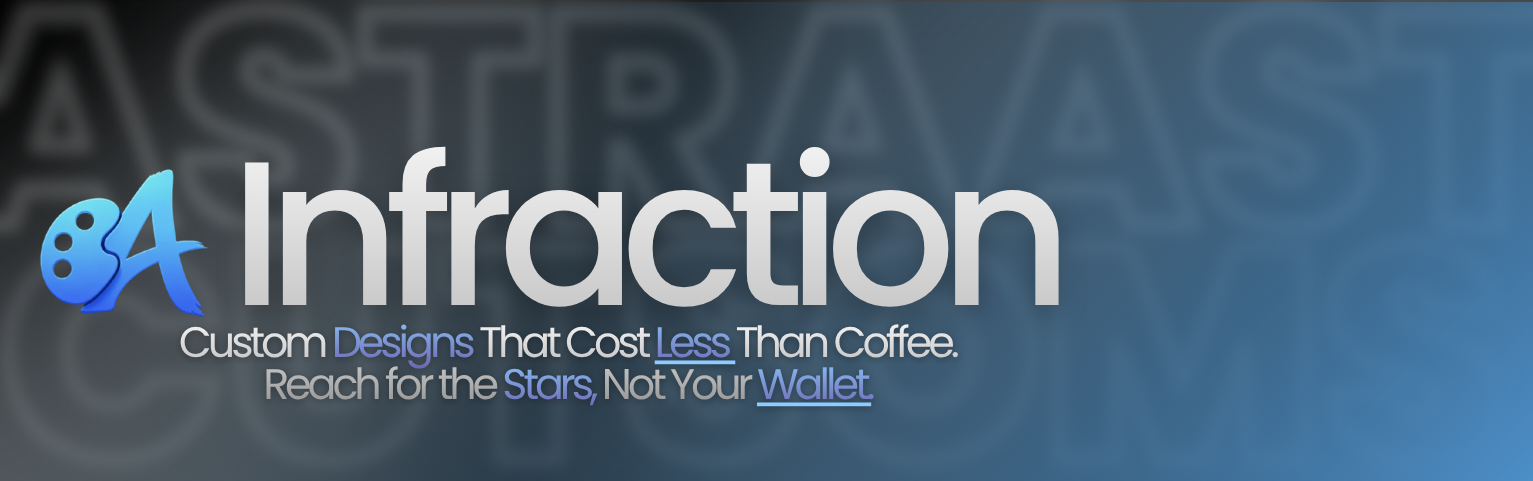
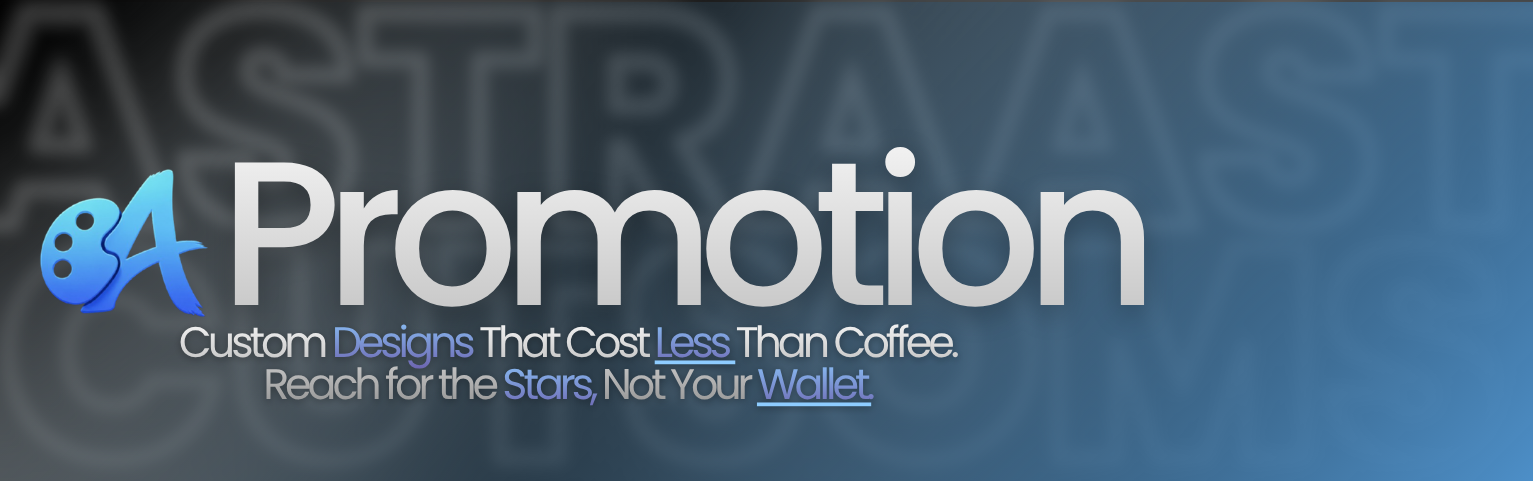
Add application statuses and persistent purchase retries
Add the applications banner, status controls, and closed-application guards. Swap the infraction and promotion artwork, and persist purchase-monitor backoff across restarts.

Changed region(s): [[0.1533, 0.3119, 0.7665, 0.6549]]

diff --git a/commands/application.js b/commands/application.js
@@ -1,0 +1,84 @@
+const { SlashCommandBuilder, MessageFlags } = require('discord.js');
+const config = require('../utils/config');
+const perms = require('../utils/permissions');
+const { BUILDERS } = require('./panel');
+const { sendWithAttachments } = require('../utils/respond');
+const { APPLICATIONS, STATUSES, STATUS_CHOICES } = require('../utils/applicationStatus');
+
+module.exports = {
+    data: new SlashCommandBuilder()
+        .setName('application')
+        .setDescription('Manage employee application availability.')
+        .addSubcommand((subcommand) => subcommand
+            .setName('status')
+            .setDescription('Set an application to open, delayed, or closed.')
+            .addStringOption((option) => option
+                .setName('application')
+                .setDescription('Application to update.')
+                .setRequired(true)
+                .addChoices(
+                    { name: APPLICATIONS.designer.name, value: 'designer' },
+                    { name: APPLICATIONS.staff.name, value: 'staff' },
+                ))
+            .addStringOption((option) => option
+                .setName('status')
+                .setDescription('Application availability.')
+                .setRequired(true)
+                .addChoices(...STATUS_CHOICES))),
+
+    async execute(interaction) {
+        const cfg = config.getConfig(interaction.guildId);
+        if (!perms.isStaff(interaction.member, cfg)) {
+            return interaction.reply({ content: 'You do not have permission to change application status.', flags: MessageFlags.Ephemeral });
+        }
+
+        const application = interaction.options.getString('application', true);
+        const status = interaction.options.getString('status', true);
+        const updatedConfig = config.setNested(interaction.guildId, 'applicationStatus', { [application]: status });
+
+        const definition = APPLICATIONS[application];
+        const statusInfo = STATUSES[status];
+        let panelMessage = '';
+        const panelLocation = updatedConfig.applicationPanel;
+        if (panelLocation?.channelId && panelLocation.messageId) {
+            try {
+                const channel = await interaction.client.channels.fetch(panelLocation.channelId);
+                if (!channel?.isTextBased?.() || channel.isDMBased?.()) {
+                    throw new Error('The saved applications panel channel is unavailable or is not a server text channel.');
+                }
+
+                let previousPanel;
+                try {
+                    previousPanel = await channel.messages.fetch(panelLocation.messageId);
+                } catch (error) {
+                    console.warn('[applications] Could not fetch the previous panel; posting a replacement:', error.message);
+                }
+
+                const replacement = await sendWithAttachments(channel, {
+                    flags: MessageFlags.IsComponentsV2,
+                    ...BUILDERS.applications(updatedConfig),
+                });
+                config.setNested(interaction.guildId, 'applicationPanel', { channelId: replacement.channelId, messageId: replacement.id });
+                panelMessage = ' The applications panel was refreshed.';
+
+                if (previousPanel) {
+                    try {
+                        await previousPanel.delete();
+                    } catch (error) {
+                        console.warn('[applications] Could not remove the previous panel message:', error.message);
+                    }
+                }
+            } catch (error) {
+                console.error('[applications] Status saved, but the panel could not be refreshed:', error);
+                panelMessage = ' The status was saved, but the panel could not be refreshed. Run `/panel applications` to post it again.';
+            }
+        } else {
+            panelMessage = ' Run `/panel applications` once to publish the status panel.';
+        }
+
+        return interaction.reply({
+            content: `Set **${definition.name}** applications to ${statusInfo.emoji} **${statusInfo.label}**.${panelMessage}`,
+            flags: MessageFlags.Ephemeral,
+        });
+    },
+};

diff --git a/commands/panel.js b/commands/panel.js
@@ -15,6 +15,7 @@ const portfolio = require('../utils/portfolio');
 const { parseColor, addPanelBanner } = require('../utils/embeds');
 const { sendAsPanel } = require('../utils/respond');
 const { isExecutive } = require('../utils/env');
+const { APPLICATIONS, STATUSES, getStatus } = require('../utils/applicationStatus');
 
 function addPanelChannel(subcommand) {
     return subcommand.addChannelOption((o) => o.setName('channel').setDescription('Channel to send the panel to').addChannelTypes(ChannelType.GuildText));
@@ -73,15 +74,21 @@ function orderPanel(cfg) {
 }
 
 function applicationsPanel(cfg) {
-    const container = baseContainer(cfg);
+    const container = baseContainer(cfg, 'applications');
     container.addTextDisplayComponents(new TextDisplayBuilder().setContent(`## Employee Applications\n\n*${cfg.brandName} is hiring!* Review the requirements below, then choose the application that fits you best.`));
     container.addSeparatorComponents(new SeparatorBuilder());
-    container.addTextDisplayComponents(new TextDisplayBuilder().setContent('**Creative Team**\n> <:OpenedEmoji1:1545902291469467668> Past experience\n> <:OpenedEmoji1:1545902291469467668> 13+\n> <:OpenedEmoji1:1545902291469467668> Active, dedicated, and professional\n\n**Customer Support**\n> <:OpenedEmoji1:1545902291469467668> 13+\n> <:OpenedEmoji1:1545902291469467668> Active and dedicated\n> <:OpenedEmoji1:1545902291469467668> At least 3 tickets per week'));
+    const designerStatus = getStatus(cfg, 'designer');
+    const staffStatus = getStatus(cfg, 'staff');
+    const designerInfo = STATUSES[designerStatus];
+    const staffInfo = STATUSES[staffStatus];
+    container.addTextDisplayComponents(new TextDisplayBuilder().setContent(
+        `**${APPLICATIONS.designer.name} — ${designerInfo.emoji} ${designerInfo.label}**\n> ${STATUSES.open.emoji} Past experience\n> ${STATUSES.open.emoji} 13+\n> ${STATUSES.open.emoji} Active, dedicated, and professional\n\n**${APPLICATIONS.staff.name} — ${staffInfo.emoji} ${staffInfo.label}**\n> ${STATUSES.open.emoji} 13+\n> ${STATUSES.open.emoji} Active and dedicated\n> ${STATUSES.open.emoji} At least 3 tickets per week`
+    ));
     container.addSeparatorComponents(new SeparatorBuilder());
     container.addTextDisplayComponents(new TextDisplayBuilder().setContent('Answer every question honestly and with useful detail. Designers should prepare portfolio links and list their software or specialties. Submitting an application does not guarantee acceptance.'));
     container.addActionRowComponents(new ActionRowBuilder().addComponents(
-        new ButtonBuilder().setCustomId('application_staff_open').setLabel('Apply for Staff').setStyle(ButtonStyle.Primary).setEmoji('🧑💼'),
-        new ButtonBuilder().setCustomId('application_designer_open').setLabel('Apply as Designer').setStyle(ButtonStyle.Success).setEmoji('🎨'),
+        new ButtonBuilder().setCustomId('application_staff_open').setLabel(APPLICATIONS.staff.buttonLabel).setStyle(ButtonStyle.Primary).setEmoji('🧑💼').setDisabled(staffStatus === 'closed'),
+        new ButtonBuilder().setCustomId('application_designer_open').setLabel(APPLICATIONS.designer.buttonLabel).setStyle(ButtonStyle.Success).setEmoji('🎨').setDisabled(designerStatus === 'closed'),
     ));
     return { components: [container] };
 }
@@ -165,6 +172,9 @@ module.exports = {
 
         if (type === 'honeypot' && sent) {
             config.setNested(guildId, 'honeypot', { channelId: sent.channelId, messageId: sent.id });
+        }
+        if (type === 'applications' && sent) {
+            config.setNested(guildId, 'applicationPanel', { channelId: sent.channelId, messageId: sent.id });
         }
 
         return sent;

diff --git a/services/purchaseMonitor.js b/services/purchaseMonitor.js
@@ -20,14 +20,20 @@ const TRANSACTION_LIMIT = 100;
 const MAX_SEEN_TRANSACTION_IDS = 500;
 const STATE_STORE = 'purchaseMonitor';
 const retryAfter = new Map();
-const consecutiveFailures = new Map();
 let isStarted = false;
 let lastRobloxRequestAt = 0;
 let hasLoadedRobloxRequestAt = false;
 
 function getGroupState(groupId) {
     const all = store.get(STATE_STORE, 'global', {});
-    return all[String(groupId)] || { initialized: false, lastSeenAt: 0, seenIds: [], nextRequestAt: 0 };
+    return {
+        initialized: false,
+        lastSeenAt: 0,
+        seenIds: [],
+        nextRequestAt: 0,
+        consecutiveFailures: 0,
+        ...all[String(groupId)],
+    };
 }
 
 function saveGroupState(groupId, state) {
@@ -223,19 +229,21 @@ async function pollGroups(client, cookie) {
             await processGroup(client, groupId, destinations, transactions);
             const updatedState = getGroupState(groupId);
             updatedState.nextRequestAt = 0;
+            updatedState.consecutiveFailures = 0;
             saveGroupState(groupId, updatedState);
             retryAfter.delete(groupId);
-            consecutiveFailures.delete(groupId);
         } catch (error) {
-            const failures = (consecutiveFailures.get(groupId) || 0) + 1;
-            consecutiveFailures.set(groupId, failures);
+            const failedState = getGroupState(groupId);
+            const failures = failedState.consecutiveFailures + 1;
             const delay = backoffDuration(error, failures);
             retryAfter.set(groupId, Date.now() + delay);
-            const failedState = getGroupState(groupId);
             failedState.nextRequestAt = Date.now() + delay;
+            failedState.consecutiveFailures = failures;
             saveGroupState(groupId, failedState);
             if (error.response?.status === 429) {
                 console.warn(`[purchaseMonitor] Roblox rate-limited group ${groupId}; retrying in ${Math.ceil(delay / 1000)} seconds.`);
+            } else if (error.response?.status >= 500) {
+                console.warn(`[purchaseMonitor] Roblox transactions endpoint returned HTTP ${error.response.status} for group ${groupId}; retrying in ${Math.ceil(delay / 1000)} seconds.`);
             } else {
                 console.error(`[purchaseMonitor] Error fetching transactions for group ${groupId}; retrying in ${Math.ceil(delay / 1000)} seconds:`, error.message);
             }

diff --git a/events/interactionCreate.js b/events/interactionCreate.js
@@ -43,6 +43,7 @@ const paymentRequestCmd = require('../commands/paymentrequest');
 const textCmd = require('../commands/text');
 const activityUtil = require('../utils/activity');
 const activityCmd = require('../commands/activity');
+const applicationStatus = require('../utils/applicationStatus');
 
 module.exports = {
     name: Events.InteractionCreate,
@@ -441,6 +442,9 @@ async function handleButton(interaction) {
     // ---- Dashboard: staff/designer applications ----
     if (customId === 'application_staff_open' || customId === 'application_designer_open') {
         const type = customId === 'application_staff_open' ? 'staff' : 'designer';
+        if (applicationStatus.getStatus(cfg, type) === 'closed') {
+            return interaction.reply({ content: `The **${applicationStatus.APPLICATIONS[type].name}** application is currently closed.`, flags: MessageFlags.Ephemeral });
+        }
         const modal = new ModalBuilder().setCustomId(`application_${type}_modal`).setTitle(`${type === 'staff' ? 'Staff' : 'Designer'} Application`);
         const questions = type === 'staff'
             ? [
@@ -792,6 +796,9 @@ async function handleModal(interaction) {
 
     if (customId === 'application_staff_modal' || customId === 'application_designer_modal') {
         const type = customId === 'application_staff_modal' ? 'staff' : 'designer';
+        if (applicationStatus.getStatus(cfg, type) === 'closed') {
+            return interaction.reply({ content: `The **${applicationStatus.APPLICATIONS[type].name}** application is currently closed. Your application was not submitted.`, flags: MessageFlags.Ephemeral });
+        }
         const answers = Object.fromEntries(['why_join', 'activity', 'experience', 'difficult_customer', 'roblox_username', 'portfolio', 'software', 'specialties']
             .map((field) => [field, interaction.fields.fields.has(field) ? interaction.fields.getTextInputValue(field) : null]));
 

diff --git a/utils/applicationStatus.js b/utils/applicationStatus.js
@@ -1,0 +1,32 @@
+const APPLICATIONS = Object.freeze({
+    designer: { name: 'Creative Team', buttonLabel: 'Apply: Creative Team' },
+    staff: { name: 'Customer Support', buttonLabel: 'Apply: Customer Support' },
+});
+
+const STATUSES = Object.freeze({
+    open: {
+        label: 'Open',
+        emoji: '<:OpenedEmoji1:1545902291469467668><:OpenedEmoji2:1545902335421841509><:OpenedEmoji3:1545902388961878188>',
+    },
+    delayed: {
+        label: 'Delayed',
+        emoji: '<:DeleyaedEmoji1:1558226588980617268><:DeleyaedEmojimiddle:1558226618160259072><:DeleyaedEmoji:1558226651148582973>',
+    },
+    closed: {
+        label: 'Closed',
+        emoji: '<:ClosedEmoji1:1545902477621072022><:ClosedEmoji2:1545902533703245914><:ClosedEmoji3:1545902589403594903>',
+    },
+});
+
+const STATUS_CHOICES = Object.freeze([
+    { name: 'Open', value: 'open' },
+    { name: 'Delayed', value: 'delayed' },
+    { name: 'Closed', value: 'closed' },
+]);
+
+function getStatus(cfg, application) {
+    const status = cfg.applicationStatus?.[application];
+    return Object.hasOwn(STATUSES, status) ? status : 'open';
+}
+
+module.exports = { APPLICATIONS, STATUSES, STATUS_CHOICES, getStatus };

diff --git a/utils/config.js b/utils/config.js
@@ -29,6 +29,8 @@ function defaultConfig() {
         applicationReviewerRoleIds: [], // roles allowed to accept/deny applications
         staffApplicationAcceptRoleId: null,
         designerApplicationAcceptRoleId: null,
+        applicationStatus: { staff: 'open', designer: 'open' },
+        applicationPanel: { channelId: null, messageId: null },
 
         // Commission — % of the after-tax price a designer keeps, by role.
         // e.g. { "123456": 75, "234567": 70 }. Highest matching rate wins

diff --git a/utils/brandAssets.js b/utils/brandAssets.js
@@ -8,6 +8,7 @@ const BANNERS = Object.freeze({
     order: `${ASSET_BASE}order-banner.png`,
     guidelines: `${ASSET_BASE}guidelines-banner.png`,
     status: `${ASSET_BASE}status-banner.png`,
+    applications: `${ASSET_BASE}applications-banner.png`,
     prices: `${ASSET_BASE}prices-banner.png`,
     portfolio: `${ASSET_BASE}portfolio-banner.png`,
     'designer-info': `${ASSET_BASE}marketplace-banner.png`,

diff --git a/README.md b/README.md
@@ -25,7 +25,8 @@ commented — work through it section by section:
 - **Executive team** — `EXECUTIVE_ROLE_IDS` / `EXECUTIVE_USER_IDS`, for approving payouts and `/package setprice` (see below — deliberately env-only)
 - **Branding** — brand name, colors, banner/footer images, prefix
   (`assets/banners` contains the dashboard, guidelines, marketplace,
-  order, status, portfolio, prices, infraction, and promotion artwork)
+  order, status, portfolio, prices, applications, infraction, and
+  promotion artwork)
 - **Roles** — staff, manager, HR, credit manager, payout manager, quality control, ticket staff (comma-separated — a role can be in more than one list)
 - **Commission** — `COMMISSION_RATES` maps a role to the % of the after-tax price a designer with that role keeps, e.g.:
   ```
@@ -246,8 +247,13 @@ The check then closes and its response button is disabled.
 
 ## Applications
 
-The dashboard has separate **Staff Application** and **Designer Application**
-buttons. Each opens a tailored five-question form and posts the result to
+The applications panel shows availability for **Customer Support** (staff)
+and **Creative Team** (designer). Staff can run
+`/application status application:<application> status:<open|delayed|closed>`
+to control either application. Closed applications have a disabled panel
+button, and both opening a form and submitting it check the current status.
+Changing the status refreshes the last applications panel posted by the bot.
+The panel buttons open tailored five-question forms and post results to
 `APPLICATIONS_CHANNEL_ID`. Reviewers are pinged using
 `APPLICATION_REVIEWER_ROLE_ID` (comma-separated for multiple roles); only
 those roles (or an administrator) can Accept/Deny. Accepted applicants
@@ -257,6 +263,11 @@ Every submission receives a confirmation DM, every decision receives a DM, and
 decisions are copied to `APPLICATION_RESULTS_CHANNEL_ID` when configured. The
 dashboard also has a **Request LOA** button (same as `/loa request`, just as a
 modal instead of typing dates as command options).
+
+The purchase monitor polls Roblox group transactions at a controlled rate.
+Transient Roblox HTTP 5xx responses are logged as upstream failures and retried
+with exponential backoff; the backoff state is persisted so restarts do not
+reset the retry delay.
 
 ## Guidelines and advertising
 
